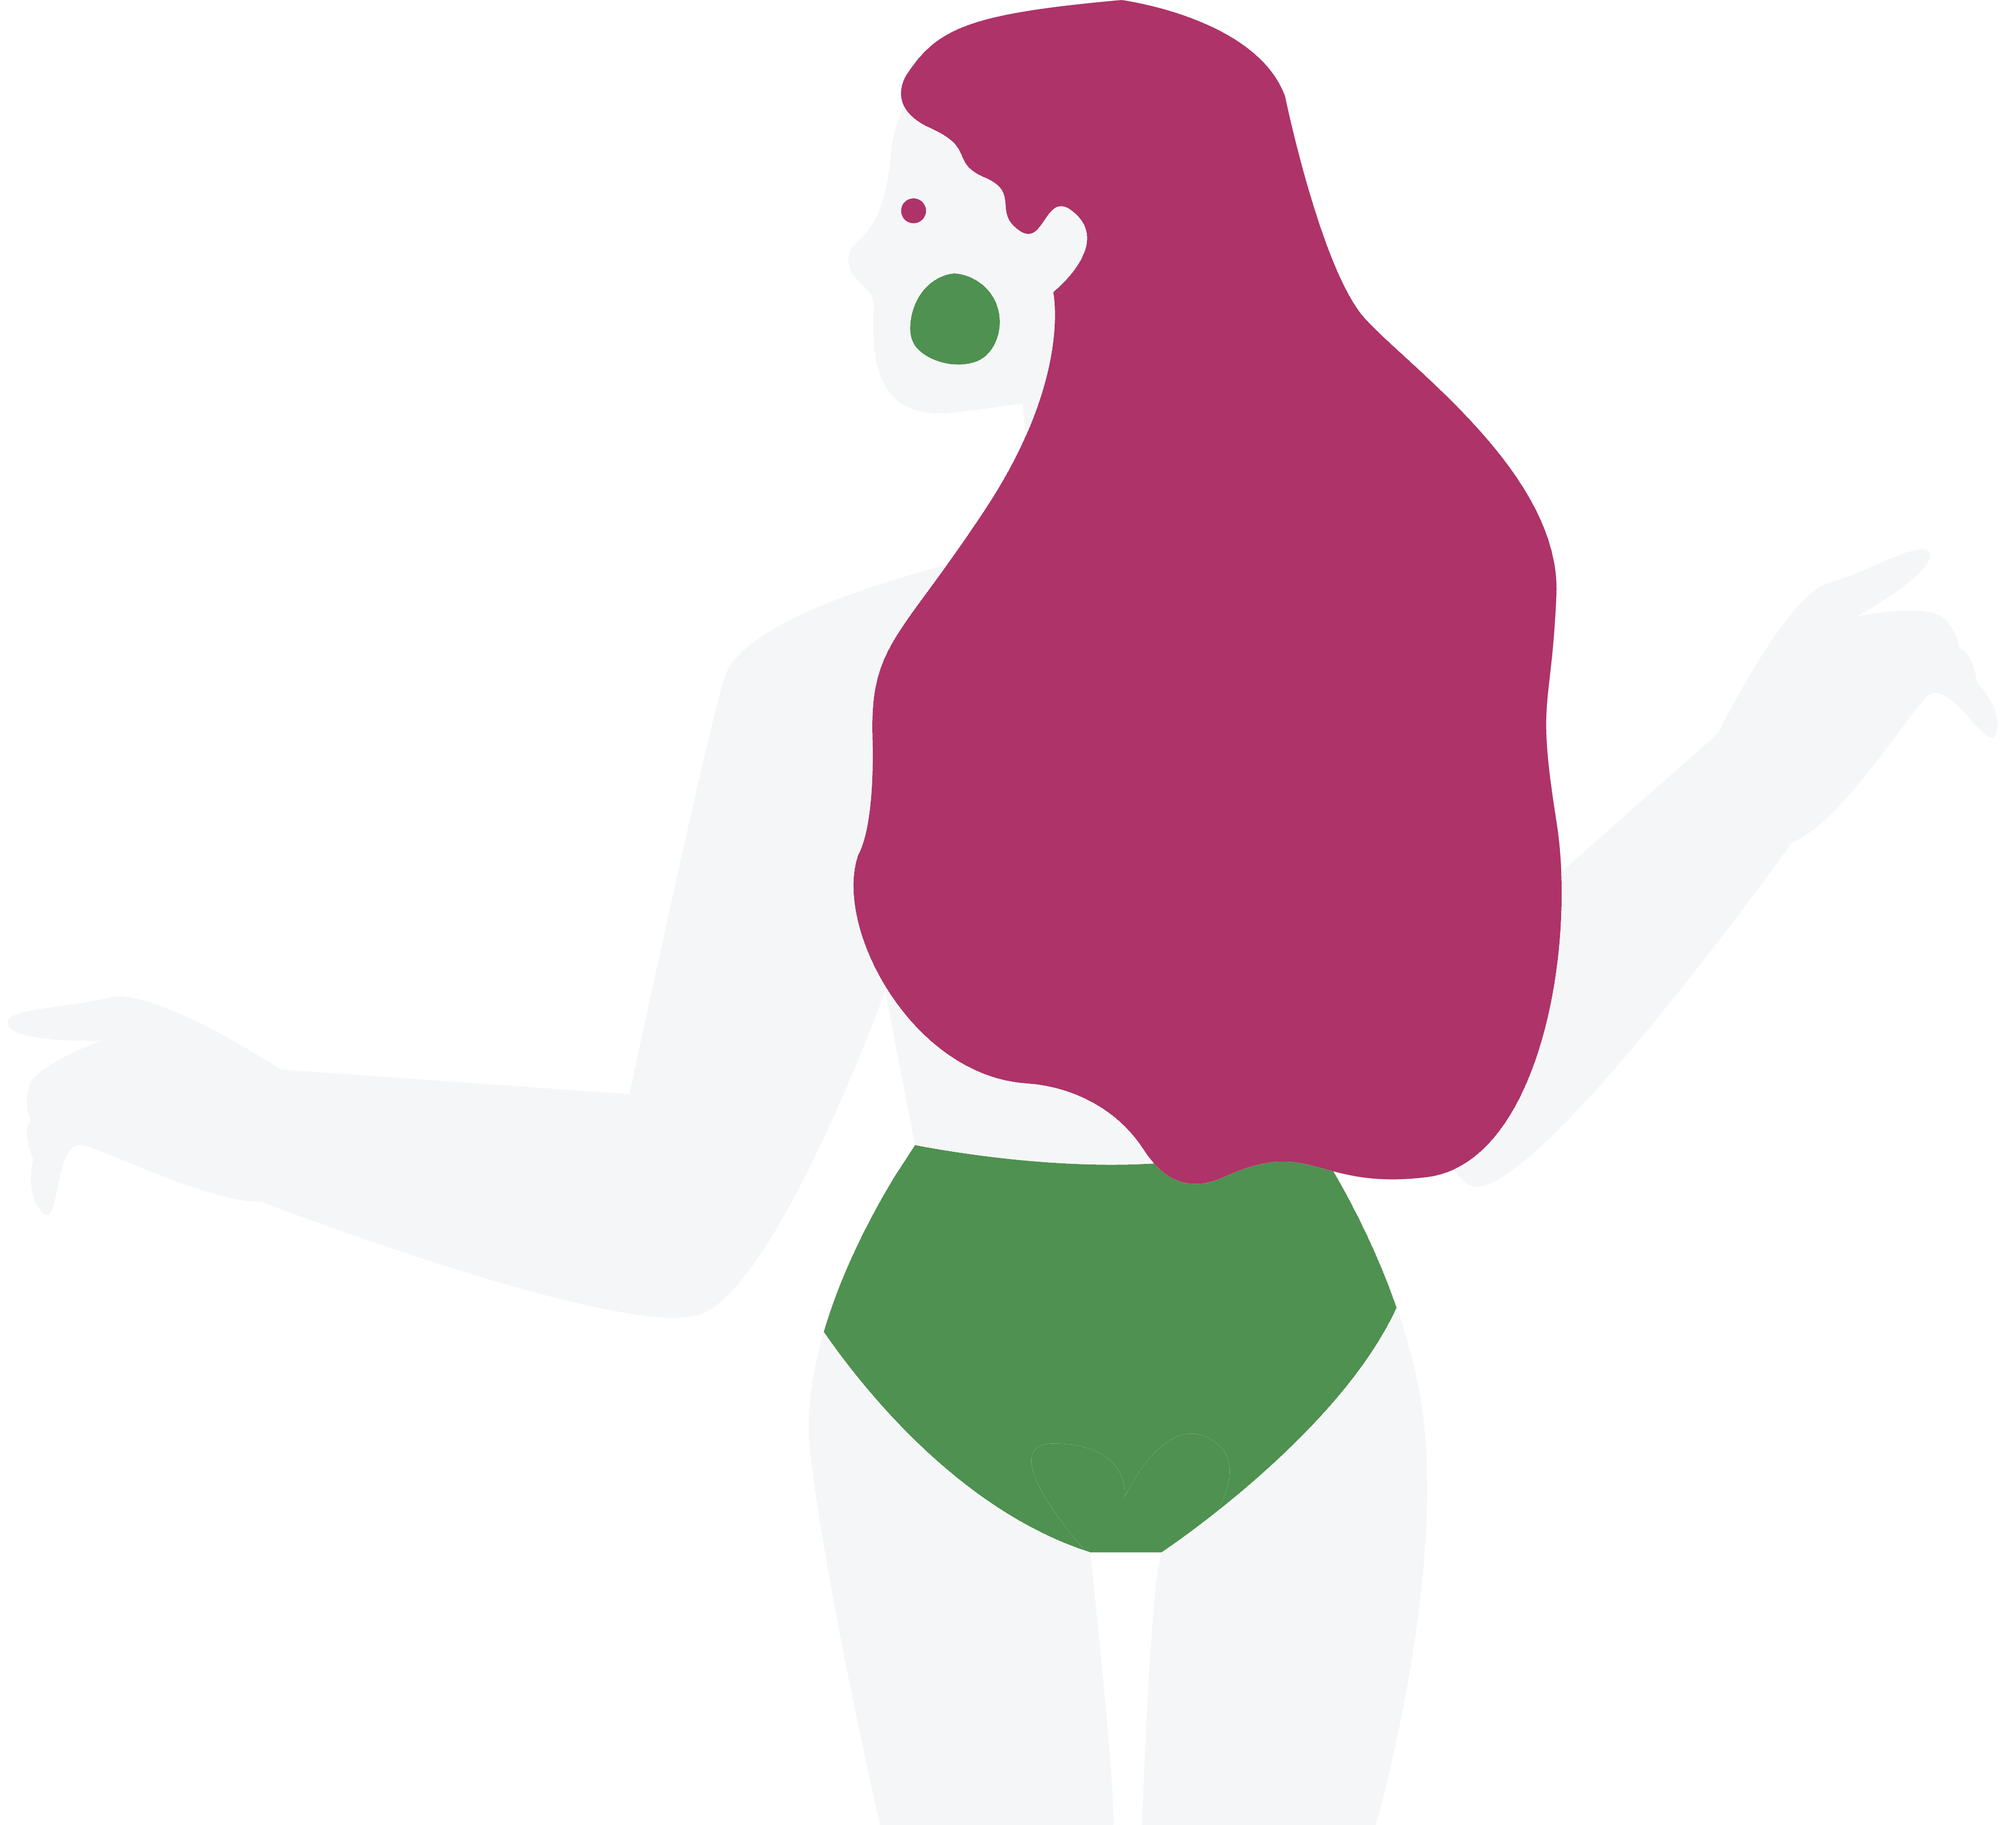
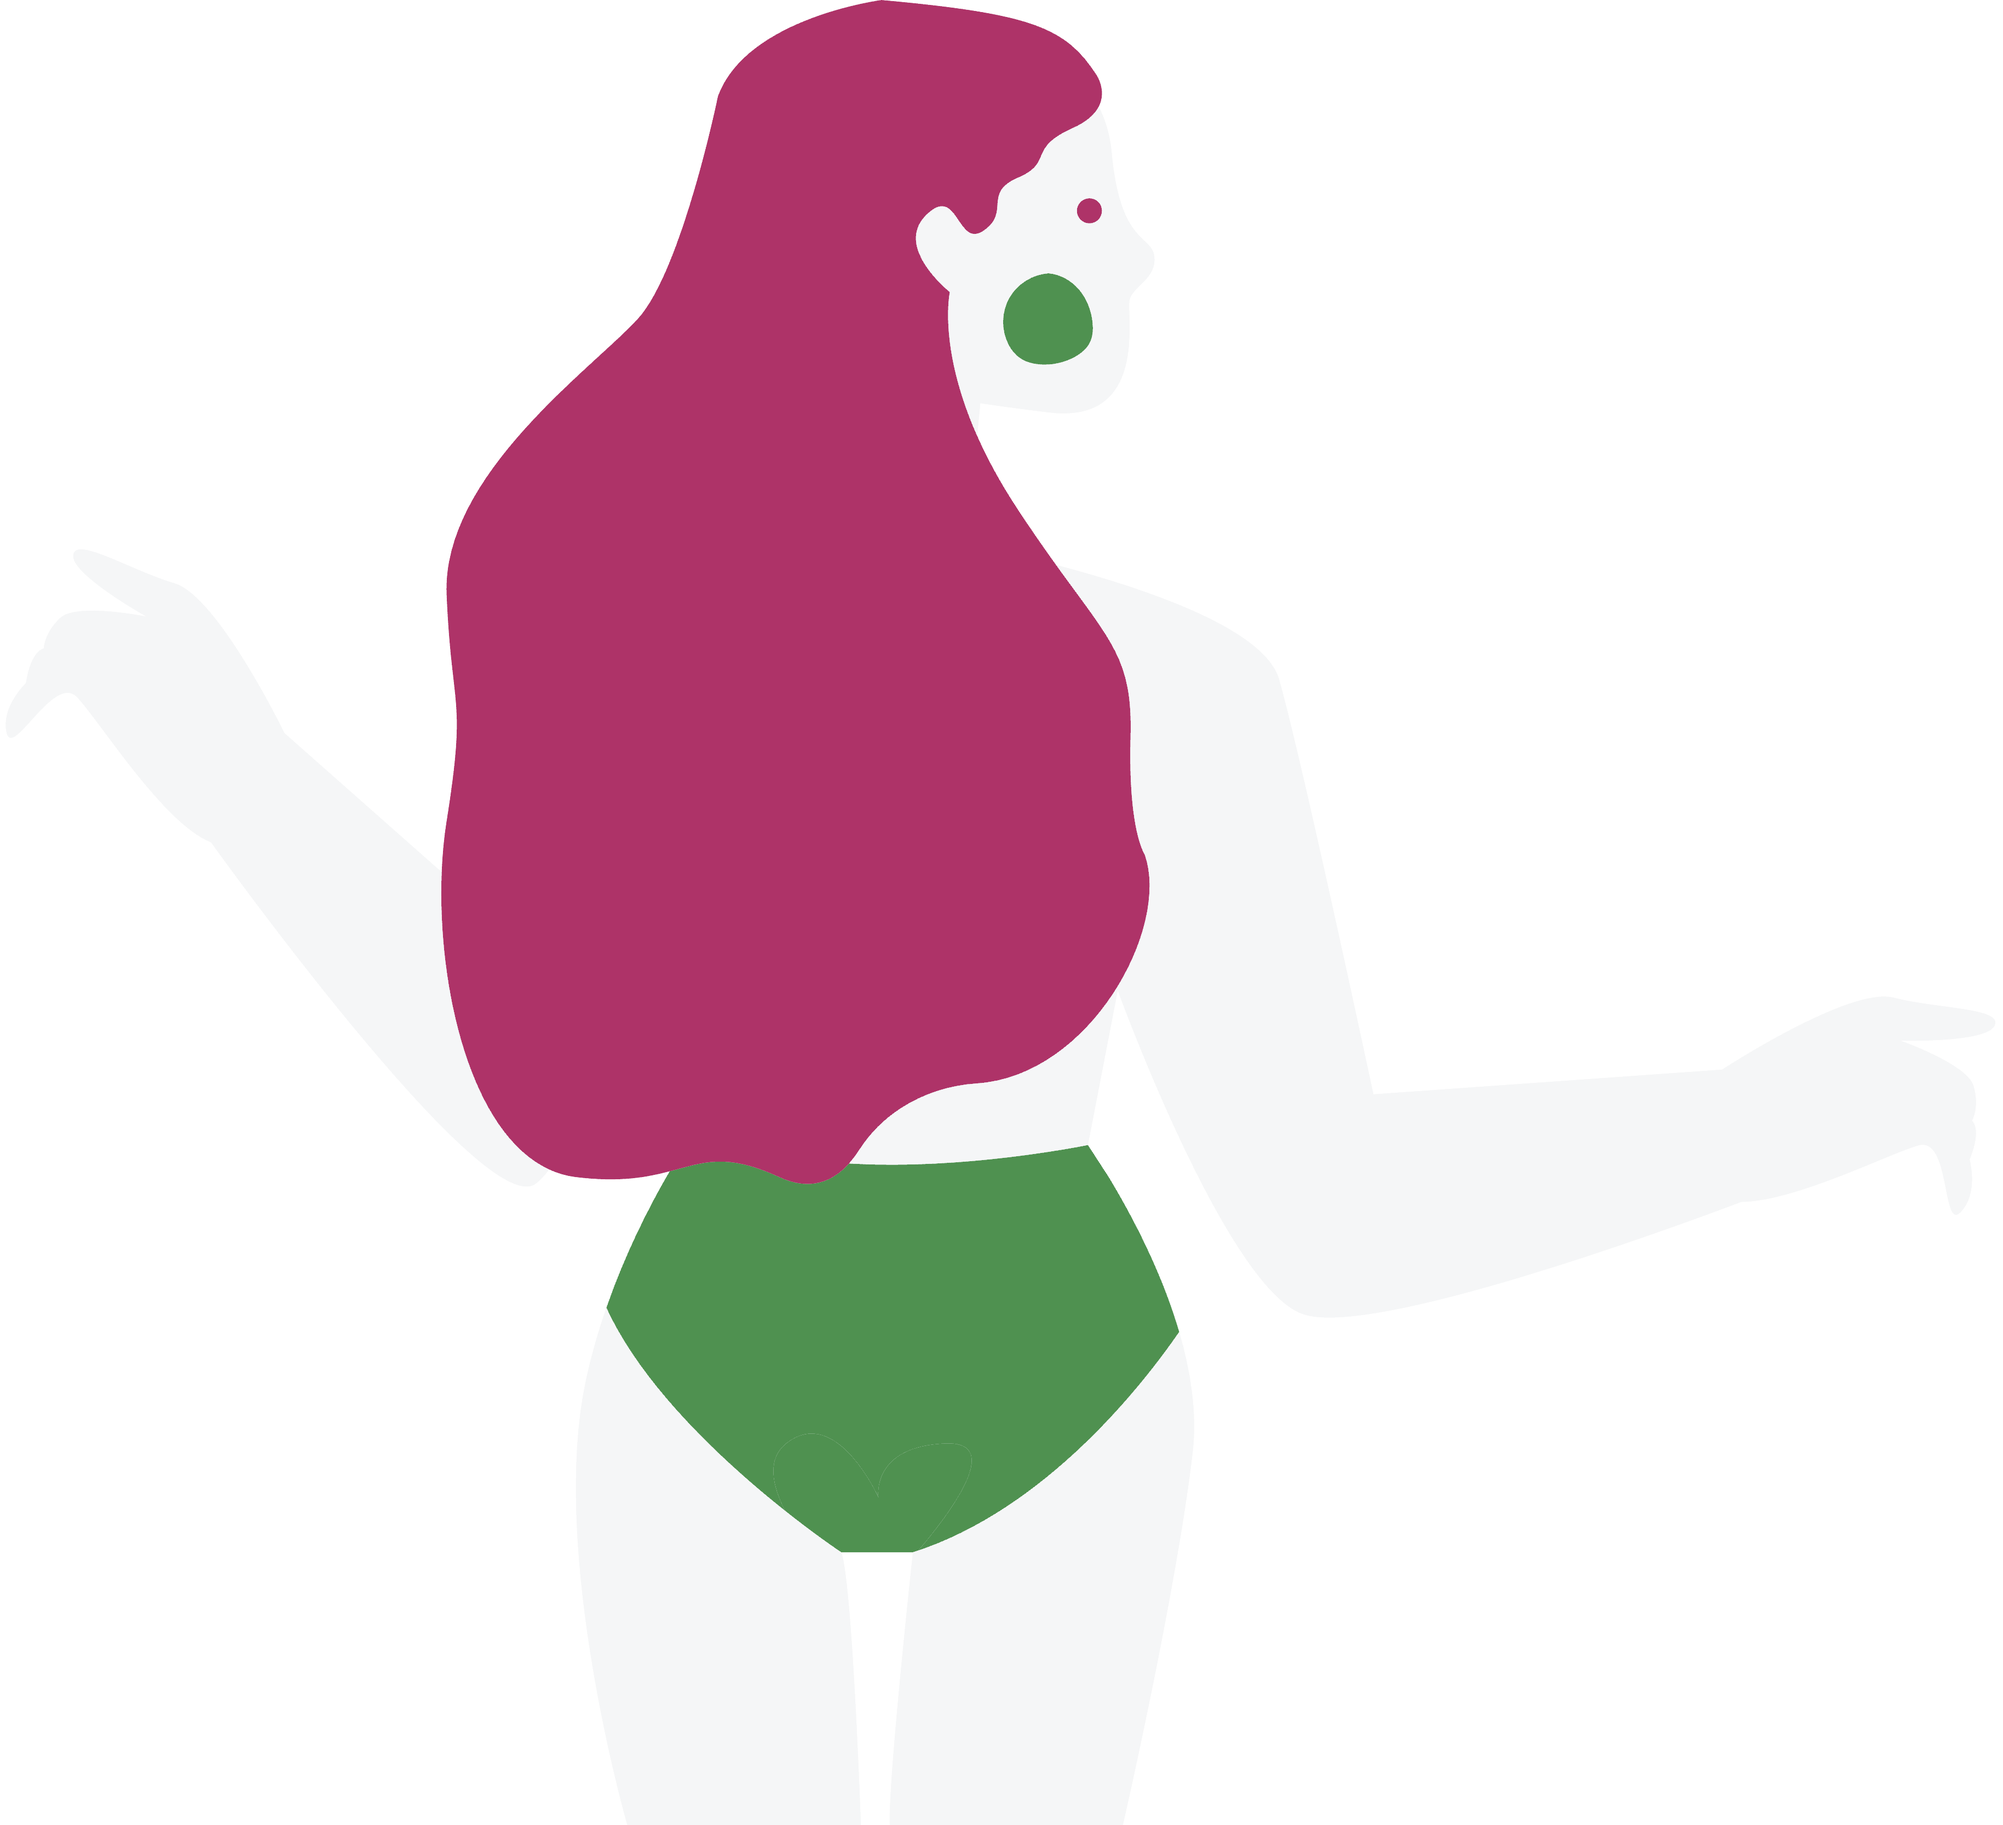
Changed picture orientation
Changed picture: flipped horizontally so that it fits better into the design.

Changed region(s): [[0.2182, 0.0, 0.7791, 0.8739]]

diff --git a/style/style.css b/style/style.css
@@ -389,7 +389,7 @@ margin-right:auto;
 }
 
 @keyframes jiggle {
-  0%{transform: rotate(0deg);}
+  0%{transform: rotate(-0deg);}
   25%{ transform: rotate(-8deg); }
   75% { transform: rotate(8deg); }
   100% { transform: rotate(0deg); }
